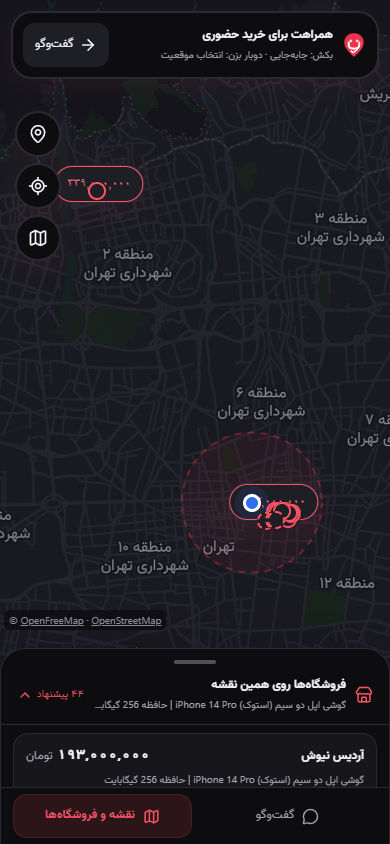
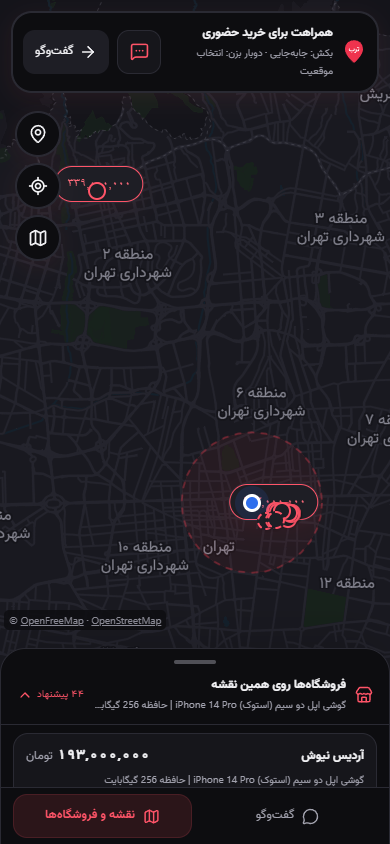
docs(readme): refresh branding and shopping workflow previews
- Update both language versions to use the approved Torob wordmark and describe contextual replies and focused dialogs.

- Recapture the desktop workspace and mobile welcome and map views with the current interface.

- Verify local documentation links and inspect all three screenshots without live model or speech requests.

diff --git a/README.fa.md b/README.fa.md
@@ -1,7 +1,7 @@
 <div dir="rtl">
 
 <p align="center">
-  <img src="apps/web/public/icons/inperson-mark.svg" width="64" alt="نشان همراه خرید حضوری">
+  <img src="apps/web/public/icons/torob-companion.svg" width="64" alt="نشان همراه خرید حضوری">
 </p>
 <h1 align="center">همراه خرید حضوری</h1>
 <p align="center">قبل از رفتن، انتخاب بهتری داشته باش؛ دستیار خرید فارسی با نقشهٔ تعاملی.</p>
@@ -13,7 +13,8 @@
 
 ## قابلیتها
 
-- **گفتوگوی پیوسته:** حفظ نیاز کالا و بودجه پس از پیامهای بعدی و تعیین موقعیت، همراه با پاسخهای پیشنهادی کوتاه.
+- **گفتوگوی پیوسته:** حفظ نیاز کالا و بودجه پس از پیامهای بعدی و تعیین موقعیت.
+- **تایپ کمتر، رابط خلوتتر:** پاسخهای آمادهٔ کوچک متناسب با مرحلهٔ خرید؛ ورود فقط اطلاعات مرتبط در پنجرهای با پسزمینهٔ تار، بدون خارجشدن از چت و نقشه.
 - **هماهنگی چت و نقشه:** دستیار شناور روی دسکتاپ و نمایش تمامصفحه در گوشی، با حفظ مسیر کاربر هنگام جابهجایی میان چت و نقشه.
 - **برنامهریزی مراجعه:** ساعت کاری ثبتشده، فاصله، مسیر پیاده، خودرو و دوچرخه، تخمین رسیدن و اتصال به نشان، بلد و Google Maps.
 - **مقایسهٔ کاربردی:** مشخصات کالا، قیمت و اطلاعات فروشگاه در پنل مستقل، با نمایش تفاوتها و امکان پاککردن انتخابها.
@@ -21,7 +22,7 @@
 - **صوت و رابط دسترسپذیر:** تبدیل گفتار به متن قابل ویرایش، خواندن متن، طراحی راستبهچپ، تم روشن و تیره و کنترلهای مناسب لمس.
 
 <p align="center">
-  <img src="docs/images/mobile-chat.png" width="240" alt="گفتوگوی خرید در گوشی">
+  <img src="docs/images/mobile-chat.png" width="240" alt="صفحهٔ شروع و انتخاب موقعیت در گوشی">
   <img src="docs/images/mobile-map.png" width="240" alt="نقشه و انتخاب فروشگاه در گوشی">
 </p>
 

diff --git a/README.md b/README.md
@@ -1,5 +1,5 @@
 <p align="center">
-  <img src="apps/web/public/icons/inperson-mark.svg" width="64" alt="In-Person Shopping Companion logo">
+  <img src="apps/web/public/icons/torob-companion.svg" width="64" alt="In-Person Shopping Companion logo">
 </p>
 <h1 align="center">In-Person Shopping Companion</h1>
 <p align="center">Find the right shop before you leave — a Persian shopping assistant with an interactive map.</p>
@@ -11,7 +11,8 @@ A continuous journey from describing what you need to comparing nearby shops and
 
 ## What it does
 
-- **Context-aware conversation:** keeps product requirements and budget across follow-up messages and location selection, with compact suggested replies.
+- **Context-aware conversation:** keeps product requirements and budget across follow-up messages and location selection.
+- **Less typing, less clutter:** compact replies adapt to the current shopping step; focused dialogs ask only for the relevant answer while chat and map stay in place.
 - **Connected chat and map:** a floating desktop assistant; full-screen mobile views that preserve your place when switching between conversation and map.
 - **Practical visit planning:** recorded opening hours, distance, walking/driving/cycling routes, arrival estimates, and links to Neshan, Balad and Google Maps.
 - **Useful comparisons:** product specifications, prices and shop details in a dedicated comparison dialog, with differences and reset controls.
@@ -19,7 +20,7 @@ A continuous journey from describing what you need to comparing nearby shops and
 - **Voice and accessible controls:** editable speech transcription, text-to-speech, Persian RTL layout, light/dark themes and touch-friendly actions.
 
 <p align="center">
-  <img src="docs/images/mobile-chat.png" width="240" alt="Mobile shopping conversation">
+  <img src="docs/images/mobile-chat.png" width="240" alt="Mobile welcome and location options">
   <img src="docs/images/mobile-map.png" width="240" alt="Mobile map and shop selection">
 </p>
 
